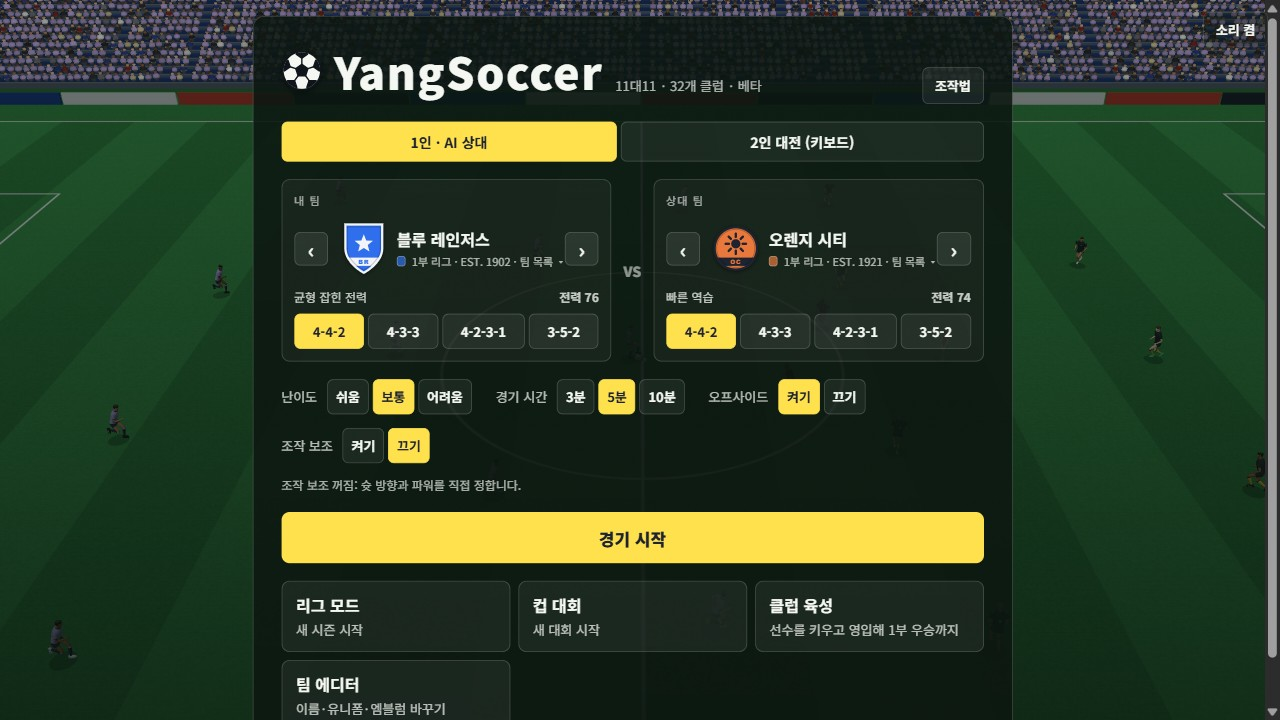
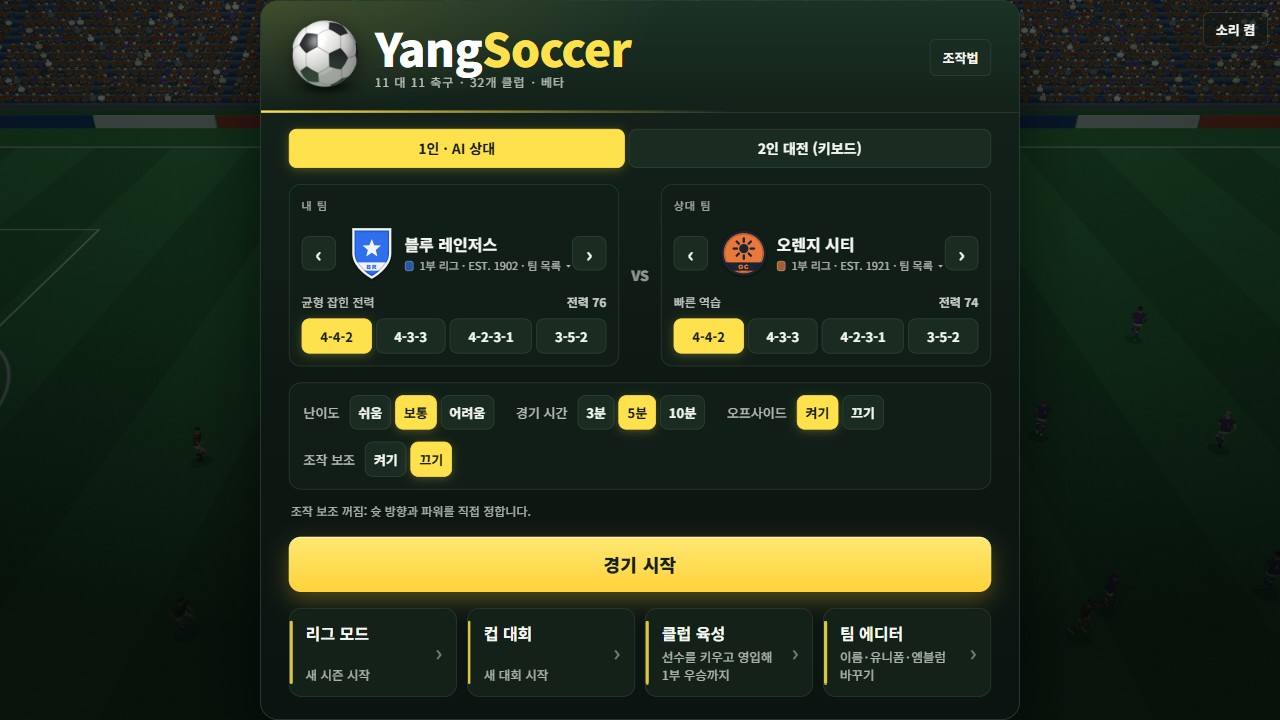
Redesign the menus: solid cards, title band, rendered football
The menu card is now opaque, with a title band across the top, a two-tone
title, solid controls and mode tiles in one row. The vector football icon
is replaced by an image of a ball with lighting and a shadow; it is
computed by scripts/make-ball.mjs rather than downloaded, so it is ours to
use.

diff --git a/web/src/style.css b/web/src/style.css
@@ -544,6 +544,71 @@ body.touch-mode .help { display: none; }
 .lg-moves { margin: 0; font-size: 13px; line-height: 1.8; }
 .lg-moves b { color: var(--accent); }
 
+/* ---------- menus: solid cards, title screen ---------- */
+.menu { background: radial-gradient(120% 90% at 50% 0%, rgba(6, 16, 11, 0.55), rgba(3, 8, 6, 0.9)); }
+.menu-card {
+  background: linear-gradient(180deg, #15241c 0%, #0e1813 55%, #0b1410 100%);
+  border: 1px solid #2a3f34; border-radius: 18px;
+  box-shadow: 0 28px 70px rgba(0, 0, 0, 0.6), inset 0 1px 0 rgba(255, 255, 255, 0.06);
+}
+.menu-card.home { gap: 16px; padding-top: 0; overflow: hidden; }
+/* Title band across the top of the card. */
+.brand {
+  display: flex; align-items: center; gap: 14px;
+  margin: 0 calc(-1 * clamp(16px, 4vw, 28px)); padding: 18px clamp(16px, 4vw, 28px) 16px;
+  background:
+    radial-gradient(90% 160% at 0% 0%, rgba(255, 225, 77, 0.16), transparent 60%),
+    linear-gradient(180deg, #1b3226 0%, #132119 100%);
+  border-bottom: 1px solid #2a3f34;
+  position: relative;
+}
+.brand::after {
+  content: ''; position: absolute; left: 0; right: 0; bottom: -1px; height: 2px;
+  background: linear-gradient(90deg, var(--accent), rgba(255, 225, 77, 0) 62%);
+}
+.brand-ball { width: clamp(52px, 9vw, 72px); height: auto; flex: none; filter: drop-shadow(0 6px 10px rgba(0, 0, 0, 0.45)); }
+.brand-text { display: flex; flex-direction: column; gap: 3px; min-width: 0; margin-right: auto; }
+.brand h1 { margin: 0; font-size: clamp(30px, 6.4vw, 46px); font-weight: 900; line-height: 1; letter-spacing: -0.015em; color: var(--accent); }
+.brand h1 span { color: #fff; }
+.brand .menu-sub { font-size: 12px; letter-spacing: 0.08em; opacity: 0.72; }
+.menu-help { margin-left: 0; border-radius: 999px; padding: 8px 16px; background: #1a2b22; border-color: #33493d; }
+.menu-help:hover { background: #22372c; }
+/* Solid controls inside the cards. */
+.menu-card .team-card, .menu-card .lg-next, .menu-card .ed-card, .menu-card .hp-block { background: #111e17; border-color: #26392f; border-radius: 12px; }
+.menu-card .seg button { background: #1a2b22; border-color: #2c4035; border-radius: 8px; transition: background 0.12s, border-color 0.12s; }
+.menu-card .seg button:hover:not(.on):not(:disabled) { background: #22372c; border-color: #3b5547; }
+.menu-card .seg button.on { background: var(--accent); border-color: var(--accent); color: #17201a; box-shadow: 0 2px 10px rgba(255, 225, 77, 0.25); }
+.menu-card .arrow { background: #1a2b22; border-color: #2c4035; border-radius: 8px; }
+.menu-card .arrow:hover { background: #22372c; }
+.menu-card .pick { background: #132119; border-color: #26392f; }
+.menu-card .pick:hover:not(:disabled) { border-color: #4b6a59; background: #182a20; }
+.menu-card .lg-ghost { background: #1a2b22; border-color: #2c4035; }
+.menu-card .lg-ghost:hover:not(:disabled) { background: #22372c; }
+.menu-card.home .options { background: #111e17; border: 1px solid #26392f; border-radius: 12px; padding: 12px 14px; gap: 12px 22px; }
+.menu-card.home .assist-note { margin: -4px 2px 0; }
+.start {
+  background: linear-gradient(180deg, #ffe873 0%, #ffd23a 100%); color: #17201a; border-radius: 12px;
+  font-size: 18px; letter-spacing: 0.02em; padding: 15px;
+  box-shadow: 0 8px 22px rgba(255, 210, 58, 0.28), inset 0 1px 0 rgba(255, 255, 255, 0.6);
+  transition: transform 0.08s, box-shadow 0.12s, filter 0.12s;
+}
+.start:hover { filter: brightness(1.05); box-shadow: 0 10px 28px rgba(255, 210, 58, 0.38), inset 0 1px 0 rgba(255, 255, 255, 0.6); }
+.start:active { transform: translateY(1px); }
+/* Mode tiles. */
+.entries { gap: 10px; grid-template-columns: repeat(4, minmax(0, 1fr)); }
+@media (max-width: 680px) { .entries { grid-template-columns: repeat(2, minmax(0, 1fr)); } }
+.entries .league-entry {
+  position: relative; background: #132119; border: 1px solid #26392f; border-radius: 12px; padding: 13px 34px 13px 16px;
+  transition: border-color 0.12s, background 0.12s, transform 0.08s;
+}
+.entries .league-entry::before { content: ''; position: absolute; left: 0; top: 12px; bottom: 12px; width: 3px; border-radius: 2px; background: var(--accent); opacity: 0.85; }
+.entries .league-entry::after { content: '›'; position: absolute; right: 14px; top: 50%; transform: translateY(-54%); font-size: 22px; opacity: 0.45; }
+.entries .league-entry:hover { background: #182a20; border-color: #4b6a59; transform: translateY(-1px); }
+.entries .league-entry:hover::after { opacity: 0.9; color: var(--accent); }
+.entries .league-entry b { font-size: 16px; }
+.entries .league-entry span { font-size: 12.5px; opacity: 0.7; }
+@media (max-height: 520px) { .brand { padding-top: 12px; padding-bottom: 10px; } .brand-ball { width: 44px; } }
+
 /* ---------- how to play, crash message ---------- */
 .menu-help { margin-left: auto; }
 .hp-block { display: flex; flex-direction: column; gap: 6px; font-size: 14px; line-height: 1.7;

diff --git a/web/src/ui/about.ts b/web/src/ui/about.ts
@@ -1,26 +1,6 @@
 /** The game's name as shown to players. (Saved games keep their older `pitchline.*` storage keys.) */
 export const TITLE = 'YangSoccer';
 
-/** A football for the title: a white ball with the classic black pentagons. */
-export function ballIcon(): string {
-  const at = (deg: number, r: number) => { const a = (deg * Math.PI) / 180; return `${(32 + Math.cos(a) * r).toFixed(1)},${(32 + Math.sin(a) * r).toFixed(1)}`; };
-  const pentagon = (cx: number, cy: number, r: number, turn: number) =>
-    Array.from({ length: 5 }, (_, i) => { const a = ((turn + i * 72) * Math.PI) / 180; return `${(cx + Math.cos(a) * r).toFixed(1)},${(cy + Math.sin(a) * r).toFixed(1)}`; }).join(' ');
-  const spokes = Array.from({ length: 5 }, (_, i) => {
-    const deg = -90 + i * 72, a = (deg * Math.PI) / 180;
-    // A seam from each corner of the middle patch out to a patch on the edge of the ball.
-    return `<line x1="${at(deg, 10).split(',')[0]}" y1="${at(deg, 10).split(',')[1]}" x2="${at(deg, 21).split(',')[0]}" y2="${at(deg, 21).split(',')[1]}"/>`
-      + `<polygon points="${pentagon(32 + Math.cos(a) * 29, 32 + Math.sin(a) * 29, 9.5, deg + 180)}"/>`;
-  }).join('');
-  return `<svg class="title-ball" viewBox="0 0 64 64" aria-hidden="true">
-    <defs><clipPath id="title-ball-clip"><circle cx="32" cy="32" r="29"/></clipPath></defs>
-    <circle cx="32" cy="32" r="30" fill="#f4f7f2" stroke="#10151c" stroke-width="2.5"/>
-    <g clip-path="url(#title-ball-clip)" fill="#10151c" stroke="#10151c" stroke-width="2.2" stroke-linejoin="round" stroke-linecap="round">
-      <polygon points="${pentagon(32, 32, 10, -90)}"/>${spokes}
-    </g>
-  </svg>`;
-}
-
 /** Version and build date, filled in by the build (see vite.config.ts). */
 export const BUILD: string = typeof __BUILD__ === 'string' ? __BUILD__ : 'dev';
 

diff --git a/web/src/ui/menu.ts b/web/src/ui/menu.ts
@@ -1,6 +1,7 @@
 import type { Difficulty, MatchConfig } from '../sim/match';
 import { DIVISION_NAME, FORMATION_NAMES, overall, TEAMS } from '../sim/team';
-import { ballIcon, copyText, deviceReport, helpHtml, noVoiceNotice, openExternal, testVoice, TITLE } from './about';
+import { copyText, deviceReport, helpHtml, noVoiceNotice, openExternal, testVoice, TITLE } from './about';
+import ballUrl from '../assets/ball.png';
 import { CareerScreen } from './career';
 import { crestSvg } from './crest';
 import { CupScreen } from './cup';
@@ -156,10 +157,13 @@ export class Menu {
       return;
     }
     this.el.innerHTML = `
-      <div class="menu-card">
-        <div class="menu-head">
-          <h1>${ballIcon()}${TITLE}</h1>
-          <span class="menu-sub">11대11 · ${TEAMS.length}개 클럽 · 베타</span>
+      <div class="menu-card home">
+        <div class="brand">
+          <img class="brand-ball" src="${ballUrl}" alt="" width="72" height="77">
+          <div class="brand-text">
+            <h1><span>${TITLE.slice(0, 4)}</span>${TITLE.slice(4)}</h1>
+            <span class="menu-sub">11 대 11 축구 · ${TEAMS.length}개 클럽 · 베타</span>
+          </div>
           <button type="button" class="lg-ghost menu-help" data-act="help">조작법</button>
         </div>
         ${noVoiceNotice()}
